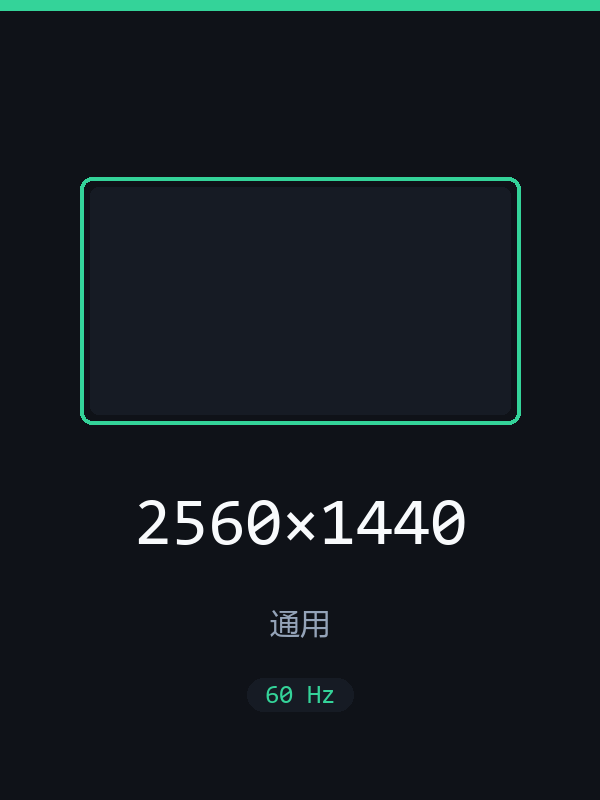
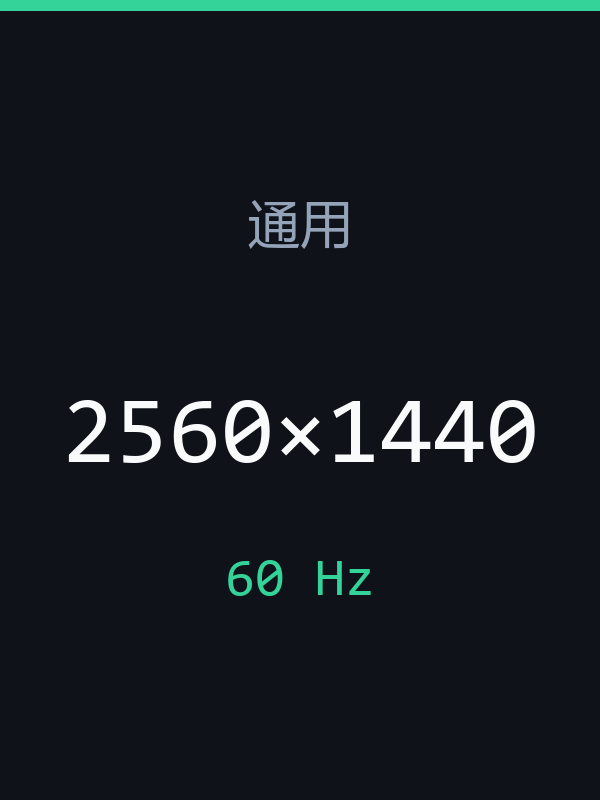
feat(v0.5.7): 卡片按平台排序，OPPO 改 2354x1080@120，封面改纯大字
- 顺序 iOS -> 安卓 -> Switch -> 电视 -> 通用；删 720p / 1440x900 两张
- OPPO 用实测可用档 2354x1080@120，vdd_settings.xml 同步生效
- 封面去方块：设备名上移并与分辨率拉开，分辨率 96px 最大
- Install-Cards 先移除托管卡再重建，删卡/改名/调顺序一次生效
- Install-Vdd 已绑 GUID 时跳过 DISPLAYn 识别，不再 exit 4

验证：用户实测虚拟屏可正确加载；四项检查全绿；zip v0.5.7 出包

Changed region(s): [[0.12, 0.2188, 0.9, 0.5938], [0.24, 0.625, 0.78, 0.8125], [0.45, 0.8438, 0.57, 0.875]]

diff --git a/tools/build/Gen-Covers.py b/tools/build/Gen-Covers.py
@@ -26,21 +26,34 @@ FONT_CN = r"C:\Windows\Fonts\msyh.ttc"
 
 OUT = Path(__file__).resolve().parents[2] / "payload" / "covers"
 
+# 顺序即 Moonlight 里的展示顺序：iOS → 安卓 → Switch → 电视 → 通用。
+# OPPO 实测可用的串流档位是 2354x1080（不是其屏幕原生 2772x1272）。
 CARDS = [
-    ("Find X9 Pro", 2772, 1272, 60, "#2DD4BF"),
     ("iPhone 17 Pro Max", 2868, 1320, 60, "#60A5FA"),
     ("iPad Pro 12.9", 2732, 2048, 120, "#A78BFA"),
+    ("Find X9 Pro", 2354, 1080, 120, "#2DD4BF"),
     ("Switch 底座", 1920, 1080, 60, "#F87171"),
     ("电视 4K", 3840, 2160, 60, "#FBBF24"),
-    ("通用", 1280, 720, 60, "#94A3B8"),
     ("通用", 2560, 1440, 60, "#34D399"),
-    ("通用", 1440, 900, 60, "#F472B6"),
 ]
+
+
+MARGIN = 44
 
 
 def centered(draw, text, font, y, fill):
     left, top, right, bottom = draw.textbbox((0, 0), text, font=font)
     draw.text(((W - (right - left)) / 2 - left, y - top), text, font=font, fill=fill)
+
+
+def fit(draw, text, path, size, max_w, min_size=24):
+    while size > min_size:
+        font = ImageFont.truetype(path, size)
+        left, _, right, _ = draw.textbbox((0, 0), text, font=font)
+        if right - left <= max_w:
+            return font
+        size -= 2
+    return ImageFont.truetype(path, min_size)
 
 
 def make(device, width, height, fps, accent):
@@ -49,31 +62,16 @@ def make(device, width, height, fps, accent):
 
     draw.rectangle([0, 0, W, 10], fill=accent)
 
-    max_w, max_h = 440, 290
-    ratio = width / height
-    sw = max_w
-    sh = int(sw / ratio)
-    if sh > max_h:
-        sh = max_h
-        sw = int(sh * ratio)
-    x0 = (W - sw) // 2
-    y0 = 300 - sh // 2
-    draw.rounded_rectangle([x0, y0, x0 + sw, y0 + sh], radius=12, outline=accent, width=4)
-    draw.rounded_rectangle([x0 + 10, y0 + 10, x0 + sw - 10, y0 + sh - 10], radius=8, fill=PANEL)
+    f_dev = fit(draw, device, FONT_CN, 52, W - MARGIN * 2)
+    f_res = fit(draw, f"{width}×{height}", FONT_RES, 96, W - MARGIN * 2)
+    f_fps = ImageFont.truetype(FONT_RES, 54)
 
-    f_res = ImageFont.truetype(FONT_RES, 68)
-    f_dev = ImageFont.truetype(FONT_CN, 30)
-    f_fps = ImageFont.truetype(FONT_RES, 26)
+    centered(draw, device, f_dev, 200, MUTED)
+    centered(draw, f"{width}×{height}", f_res, 400, TEXT)
 
-    centered(draw, f"{width}×{height}", f_res, 500, TEXT)
-    centered(draw, device, f_dev, 610, MUTED)
-
-    badge = f"{fps} Hz"
-    left, top, right, bottom = draw.textbbox((0, 0), badge, font=f_fps)
-    bw, bh = right - left, bottom - top
-    bx, by = (W - bw) / 2, 686
-    draw.rounded_rectangle([bx - 18, by - 8, bx + bw + 18, by + bh + 8], radius=16, fill=PANEL)
-    draw.text((bx - left, by - top), badge, font=f_fps, fill=accent)
+    label = f"{fps} Hz"
+    left, top, right, bottom = draw.textbbox((0, 0), label, font=f_fps)
+    draw.text(((W - (right - left)) / 2 - left, 560 - top), label, font=f_fps, fill=accent)
 
     OUT.mkdir(parents=True, exist_ok=True)
     path = OUT / f"res-{width}x{height}.png"

diff --git a/docs/安装Moonlight卡片.md b/docs/安装Moonlight卡片.md
@@ -21,24 +21,28 @@ related:
 
 ## 装了什么
 
-`安装分辨率卡片.cmd`（或 `Install-Cards.ps1`）会新增 6 张卡，保留原有 `Desktop` 与 `Steam Big Picture`：
+`安装分辨率卡片.cmd`（或 `Install-Cards.ps1`）会新增 6 张卡，保留原有 `Desktop` 与 `Steam Big Picture`。顺序按 **iOS → 安卓 → Switch → 电视 → 通用**：
 
-| 卡片名 | 建议分辨率 | 用途 |
+| 卡片名 | 分辨率 | 用途 |
 |---|---|---|
-| 桌面 · 720p | `1280x720` | 低带宽 / 远距离 |
-| 桌面 · 1080p | `1920x1080` | 电脑 / 电视常规档 |
-| 桌面 · 2K | `2560x1440` | 高清桌面 |
-| 桌面 · 4K | `3840x2160` | 大屏 |
-| 桌面 · 手机 | `2772x1272` / `2868x1320` | 竖屏原生，铺满无黑边 |
-| 桌面 · 平板 | `2732x2048@120` | iPad Pro |
+| `iPhone 17 Pro Max 2868x1320@60` | `2868x1320` | iOS 手机 |
+| `iPad Pro 12.9 2732x2048@120` | `2732x2048@120` | iOS 平板 4:3 |
+| `Find X9 Pro 2354x1080@120` | `2354x1080@120` | 安卓手机 |
+| `Switch 底座 1920x1080@60` | `1920x1080` | Switch 主机 |
+| `电视 4K 3840x2160@60` | `3840x2160` | 电视 4K |
+| `通用 2560x1440@60` | `2560x1440` | 通用 2K |
 
-脚本是**幂等**的：重跑不会重复加卡，也不覆盖已有同名卡（保护你在 Moonlight 侧的设置）。要强制覆盖加 `-Force`。
+脚本是**幂等**的：每次先移除自己生成过的卡（封面指向 `covers\res-*` 的那些），再按上表顺序重建——所以**删卡、改名、调顺序都会一次生效**，且不会碰 `Desktop` / `Steam Big Picture`。
 
 ## 每张卡有自己的封面
 
-`payload/covers/` 下 8 张 600×800 PNG，由 `tools/build/Gen-Covers.py` 生成——按各自宽高比画屏幕轮廓，配上大号分辨率和刷新率，一眼能区分 16:9 / 4:3 / 手机宽屏。
+`payload/covers/` 下 6 张 600×800 PNG，由 `tools/build/Gen-Covers.py` 生成。版式固定三行、纯大字，没有图形：
 
-安装时复制到 `C:\Program Files\Sunshine\assets\covers\`，`apps.json` 的 `image-path` 写相对路径（`covers/res-1920x1080.png`）。Sunshine 先按安装目录的 `assets\` 找图，所以换机器也不会失效；写绝对路径则会。
+- 第一行：设备名（自动缩放到不超边）
+- 第二行：分辨率，最大号（96px 等宽字体）
+- 第三行：刷新率，主色
+
+安装时复制到 `C:\Program Files\Sunshine\assets\covers\`，`image-path` 写相对路径（`covers/res-1920x1080.png`）。Sunshine 先按安装目录的 `assets\` 找图，所以换机器也不会失效；写绝对路径则会。
 
 改图后重生成：
 
@@ -62,7 +66,7 @@ python tools/build/Gen-Covers.py
 
 对**每个连接设备**：
 
-1. 点开某张「桌面 · xxx」卡的设置（不是直接点卡连接）；
+1. 点开某张分辨率卡的设置（不是直接点卡连接）；
 2. 把分辨率设成卡名对应档位，帧率按需；
 3. **打开「优化游戏设置」**——不开的话 Sunshine 不改宿主分辨率，源码有明确警告；
 4. 保存。之后点这张卡就会用该档位。

diff --git a/CHANGELOG.md b/CHANGELOG.md
@@ -1,5 +1,19 @@
 # CHANGELOG
 
+## v0.5.7 — 2026-11-25
+
+### 变更
+
+- 卡片按 **iOS → 安卓 → Switch → 电视 → 通用** 排序；OPPO 档位改为实测可用的 `2354x1080@120`（原写屏幕原生 `2772x1272`，实际不生效）；移除 `通用 1280x720@60` 与 `通用 1440x900@60`。现共 6 张分辨率卡（含桌面总 8 张）。
+- `vdd-resolutions.txt` 同步：`Find X9 Pro|2354x1080|120`，删除 `1280x720`、`1440x900`；虚拟屏模式表实测已生效（`vdd_settings.xml` 7 个模式）。
+- 封面改为**固定版式纯大字**：设备名上移并与分辨率拉开间距、分辨率 96px 最大、刷新率主色，移除屏幕轮廓方块。`Gen-Covers.py` 的 `CARDS` 同时是顺序与内容的唯一真源。
+- `Install-Cards.ps1` 改为"先移除自己生成过的卡、再按列表重建"：删卡、改名、调顺序一次生效，且不碰 `Desktop` / `Steam Big Picture`；同时清理安装目录里已废弃的旧封面。
+- `Install-Vdd.ps1`：`output_name` 已绑定 `device_id` 时跳过 `DISPLAYn` 识别，不再因此 `exit 4`（本次实测退出码 0）。
+
+### 说明
+
+- 用户实测确认虚拟屏可正确加载（`ensure_only_display` + GUID 生效）。真机串流分辨率仍待逐档验证。
+
 ## v0.5.6 — 2026-11-25
 
 ### 新增

diff --git a/AGENTS.md b/AGENTS.md
@@ -1,6 +1,6 @@
 # AGENTS.md · sunshine-lan-streaming 项目规则
 
-> 📌 **文档基线**：2026-11-25（`30e146d`）—— 虚拟屏原生 ensure_only_display + 10 张带封面的分辨率卡片 + 设备硬件标准化，zip 自包含全部组件（v0.5.6，knowledge profile）
+> 📌 **文档基线**：2026-11-25（`30e146d` 起，含未提交的改动）—— 虚拟屏原生 ensure_only_display + 6 张纯大字封面卡片 + 设备硬件标准化，zip 自包含全部组件（v0.5.7，knowledge profile）
 > **更新文档后请更新此行**（日期 + 新 commit hash），并在 CHANGELOG 追加版本
 
 本仓库是 sunshine-lan-streaming 的知识库。回答相关问题前先读这份，再读 [docs/index.md](docs/index.md)。

diff --git a/docs/Moonlight卡片分辨率.md b/docs/Moonlight卡片分辨率.md
@@ -62,7 +62,7 @@ vdisplay/SudoVDA 能按 `SUNSHINE_CLIENT_*` 动态建任意分辨率的屏，但
 
 ## 当前表覆盖的档位
 
-`1920x1080`、`1280x720`、`2560x1440`、`3840x2160`、`1440x900`、`1920x1200`，以及各设备原生值 `2772x1272`（Find X9 Pro）、`2868x1320`（iPhone 17 Pro Max）、`2732x2048@120`（iPad Pro M1）。
+`1920x1080`、`2560x1440`、`3840x2160`、`1920x1200`，以及设备档 `2868x1320`（iPhone 17 Pro Max）、`2732x2048@120`（iPad Pro M1）、`2354x1080@120`（Find X9 Pro 实测可用档，非屏幕原生 2772x1272）。
 
 **注意**：`redmibookpro15x` 物理屏是 `3200x2000`，虚拟屏初始档是 `1920x1080`；客户端选 3200x2000 时若表里没有，会停在当前档。需要时再加。
 

diff --git a/schema/agents.template.md b/schema/agents.template.md
@@ -1,6 +1,6 @@
 # AGENTS.md · sunshine-lan-streaming 项目规则
 
-> 📌 **文档基线**：2026-11-25（`30e146d`）—— 虚拟屏原生 ensure_only_display + 10 张带封面的分辨率卡片 + 设备硬件标准化，zip 自包含全部组件（v0.5.6，knowledge profile）
+> 📌 **文档基线**：2026-11-25（`30e146d` 起，含未提交的改动）—— 虚拟屏原生 ensure_only_display + 6 张纯大字封面卡片 + 设备硬件标准化，zip 自包含全部组件（v0.5.7，knowledge profile）
 > **更新文档后请更新此行**（日期 + 新 commit hash），并在 CHANGELOG 追加版本
 
 本仓库是 sunshine-lan-streaming 的知识库。回答相关问题前先读这份，再读 [docs/index.md](docs/index.md)。
